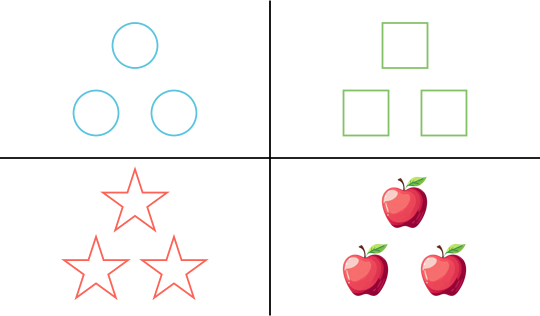
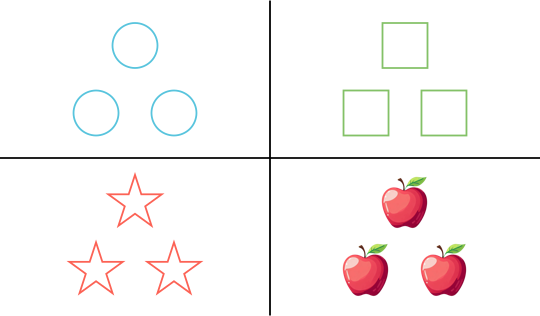
Create `arrange_circular` helper method for Manim

Changed region(s): [[0.2667, 0.7405, 0.3852, 0.9399], [0.1185, 0.7405, 0.237, 0.9399], [0.1778, 0.5411, 0.3259, 0.7405]]

diff --git a/code/image_generation/manim_helpers.py b/code/image_generation/manim_helpers.py
@@ -1,0 +1,25 @@
+from manim import RIGHT, TAU, UP, Mobject, np
+
+
+def arrange_circular(*mobjects: Mobject, clockwise: bool = False, radius: float = 1.0, offset: float = 0.0):
+    """
+    Arranges the mobjects in a circle.
+
+    The first mobject will be placed at the **top** of the circle.
+
+    Args:
+        mobjects: Mobjects to arrange.
+        clockwise: Whether the arrangement should be clockwise instead of anticlockwise.
+        radius: The radius of the circle to arrange the objects around.
+        offset: The offset of the arrangement.
+    """
+
+    num_mobjects = len(mobjects)
+    multiplier = -1 if clockwise else 1
+    offset += TAU / 4
+
+    for i, mobject in enumerate(mobjects):
+        theta = TAU * multiplier * i / num_mobjects + offset
+        right = np.cos(theta) * radius
+        up = np.sin(theta) * radius
+        mobject.shift(right * RIGHT + up * UP)
